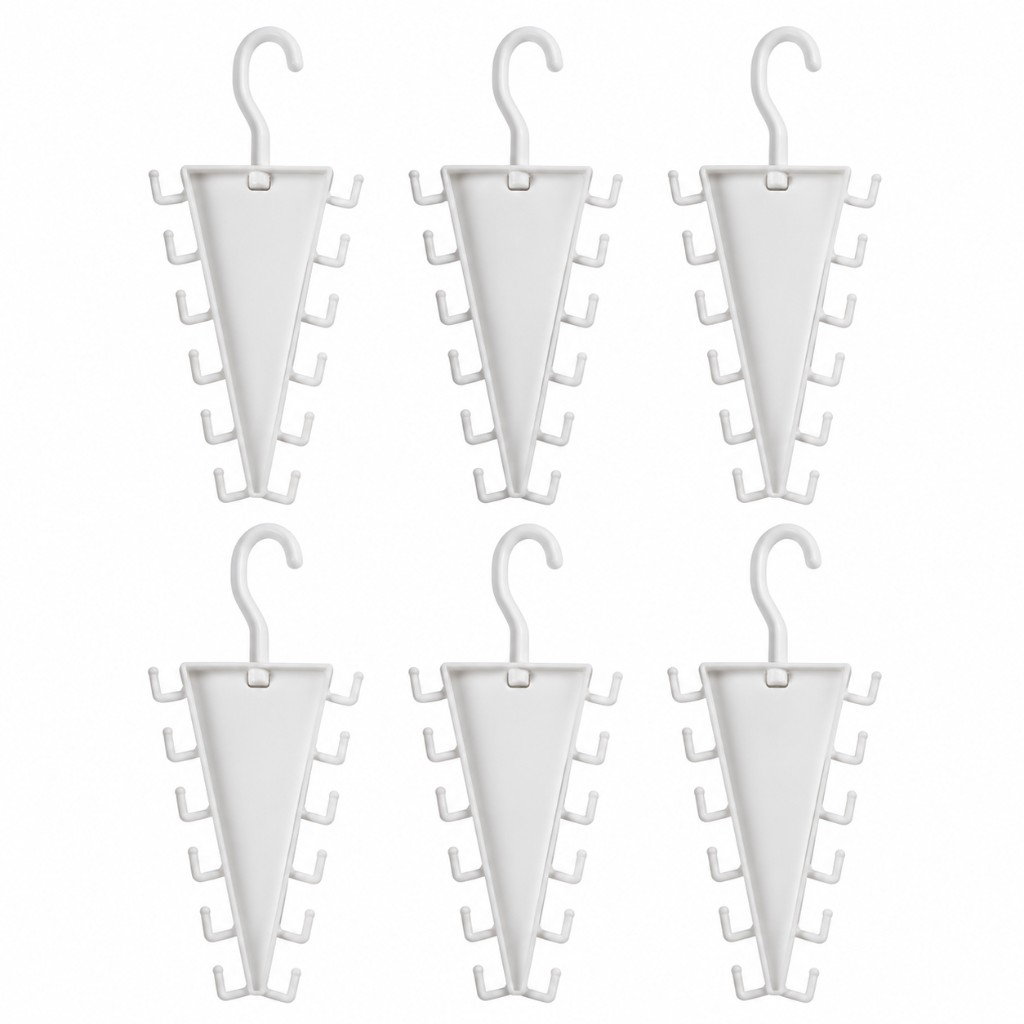
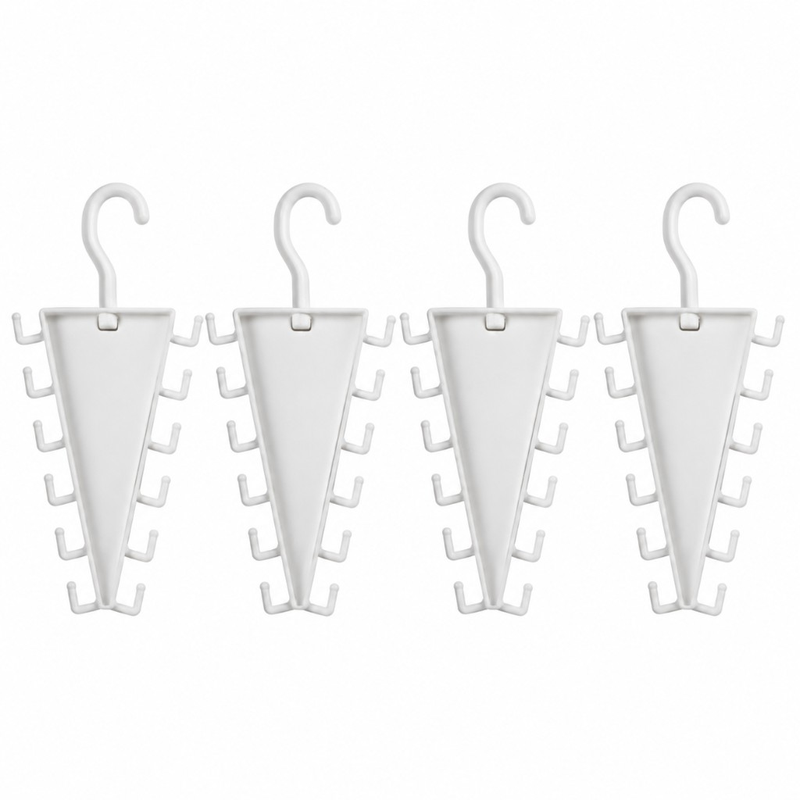
Update closet hanger 4-piece benefit carousel with new product photo.

diff --git a/closet-organizer-hanger-panama.html b/closet-organizer-hanger-panama.html
@@ -211,7 +211,7 @@
         <p>Elige tu cinturón, gorra, bufanda o corbata sin tener que revolver todo el clóset.</p>
       </button>
       <button type="button" class="mech-card">
-        <picture><source type="image/webp" srcset="/images/closet-organizer-hanger/benefit-7.webp?v=20260926d"><img src="/images/closet-organizer-hanger/benefit-7.png?v=20260926d" alt="Paquete de 6 organizadores blancos de doble cara" width="800" height="800" loading="lazy" decoding="async"></picture>
+        <picture><source type="image/webp" srcset="/images/closet-organizer-hanger/benefit-7.webp?v=20261006c"><img src="/images/closet-organizer-hanger/benefit-7.png?v=20261006c" alt="Paquete de 4 organizadores blancos giratorios en fila" width="800" height="800" loading="lazy" decoding="async"></picture>
         <h3>📦 Paquete de 4 piezas</h3>
         <p>Organiza diferentes tipos de accesorios o utiliza varios organizadores para aprovechar mucho mejor tu clóset.</p>
       </button>
